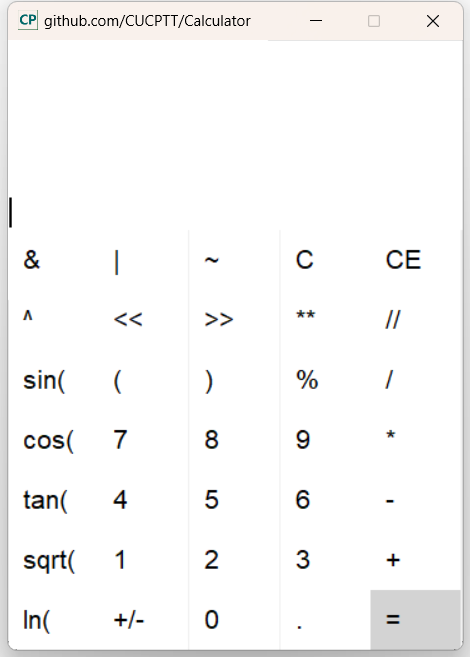
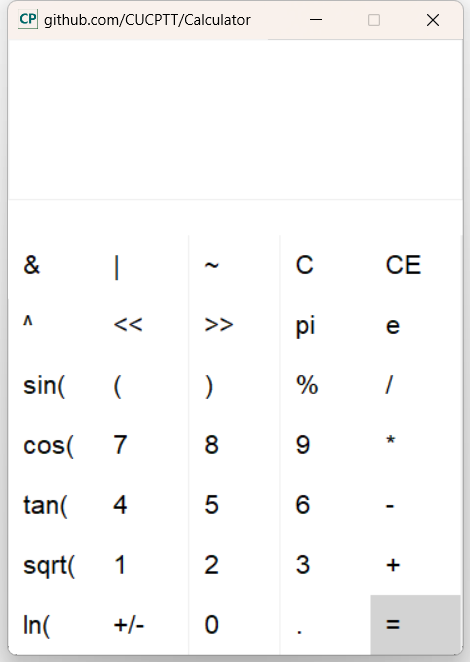
添加 pi 和 e 常量；与 RPN 对接

diff --git a/main.py b/main.py
@@ -2,13 +2,15 @@ import tkinter as tk
 from tkinter import ttk
 import pandas as pd
 from lexicalAnalyse import lexer
+from ReversePN import RPN
 
 def calculate():
     current_input = entry.get()
     if current_input:
-        print(lexer(current_input))
-        history_list.insert(tk.END, current_input + "=\n")
+        rpn_list, result = RPN(lexer(current_input))
+        history_list.insert(tk.END, current_input + "=" + str(result) + "\n")
         entry.delete(0, tk.END)
+        entry.insert(0, str(result))
 
 def toggle_sign():
     current_input = entry.get()
@@ -63,7 +65,7 @@ def create_calculator_gui():
             button = ttk.Button(window, text=button_text, command=lambda: entry.delete(0, tk.END), style="Custom.TButton")
         elif button_text == "=":
             # 创建特殊样式的按钮
-            button = ttk.Button(window, text=button_text, command=lambda: [calculate(), entry.delete(0, tk.END)], style="Equal.TButton")
+            button = ttk.Button(window, text=button_text, command=calculate, style="Equal.TButton")
         elif button_text == "+/-":
             # 创建切换正负号按钮
             button = ttk.Button(window, text=button_text, command=toggle_sign, style="Custom.TButton")
